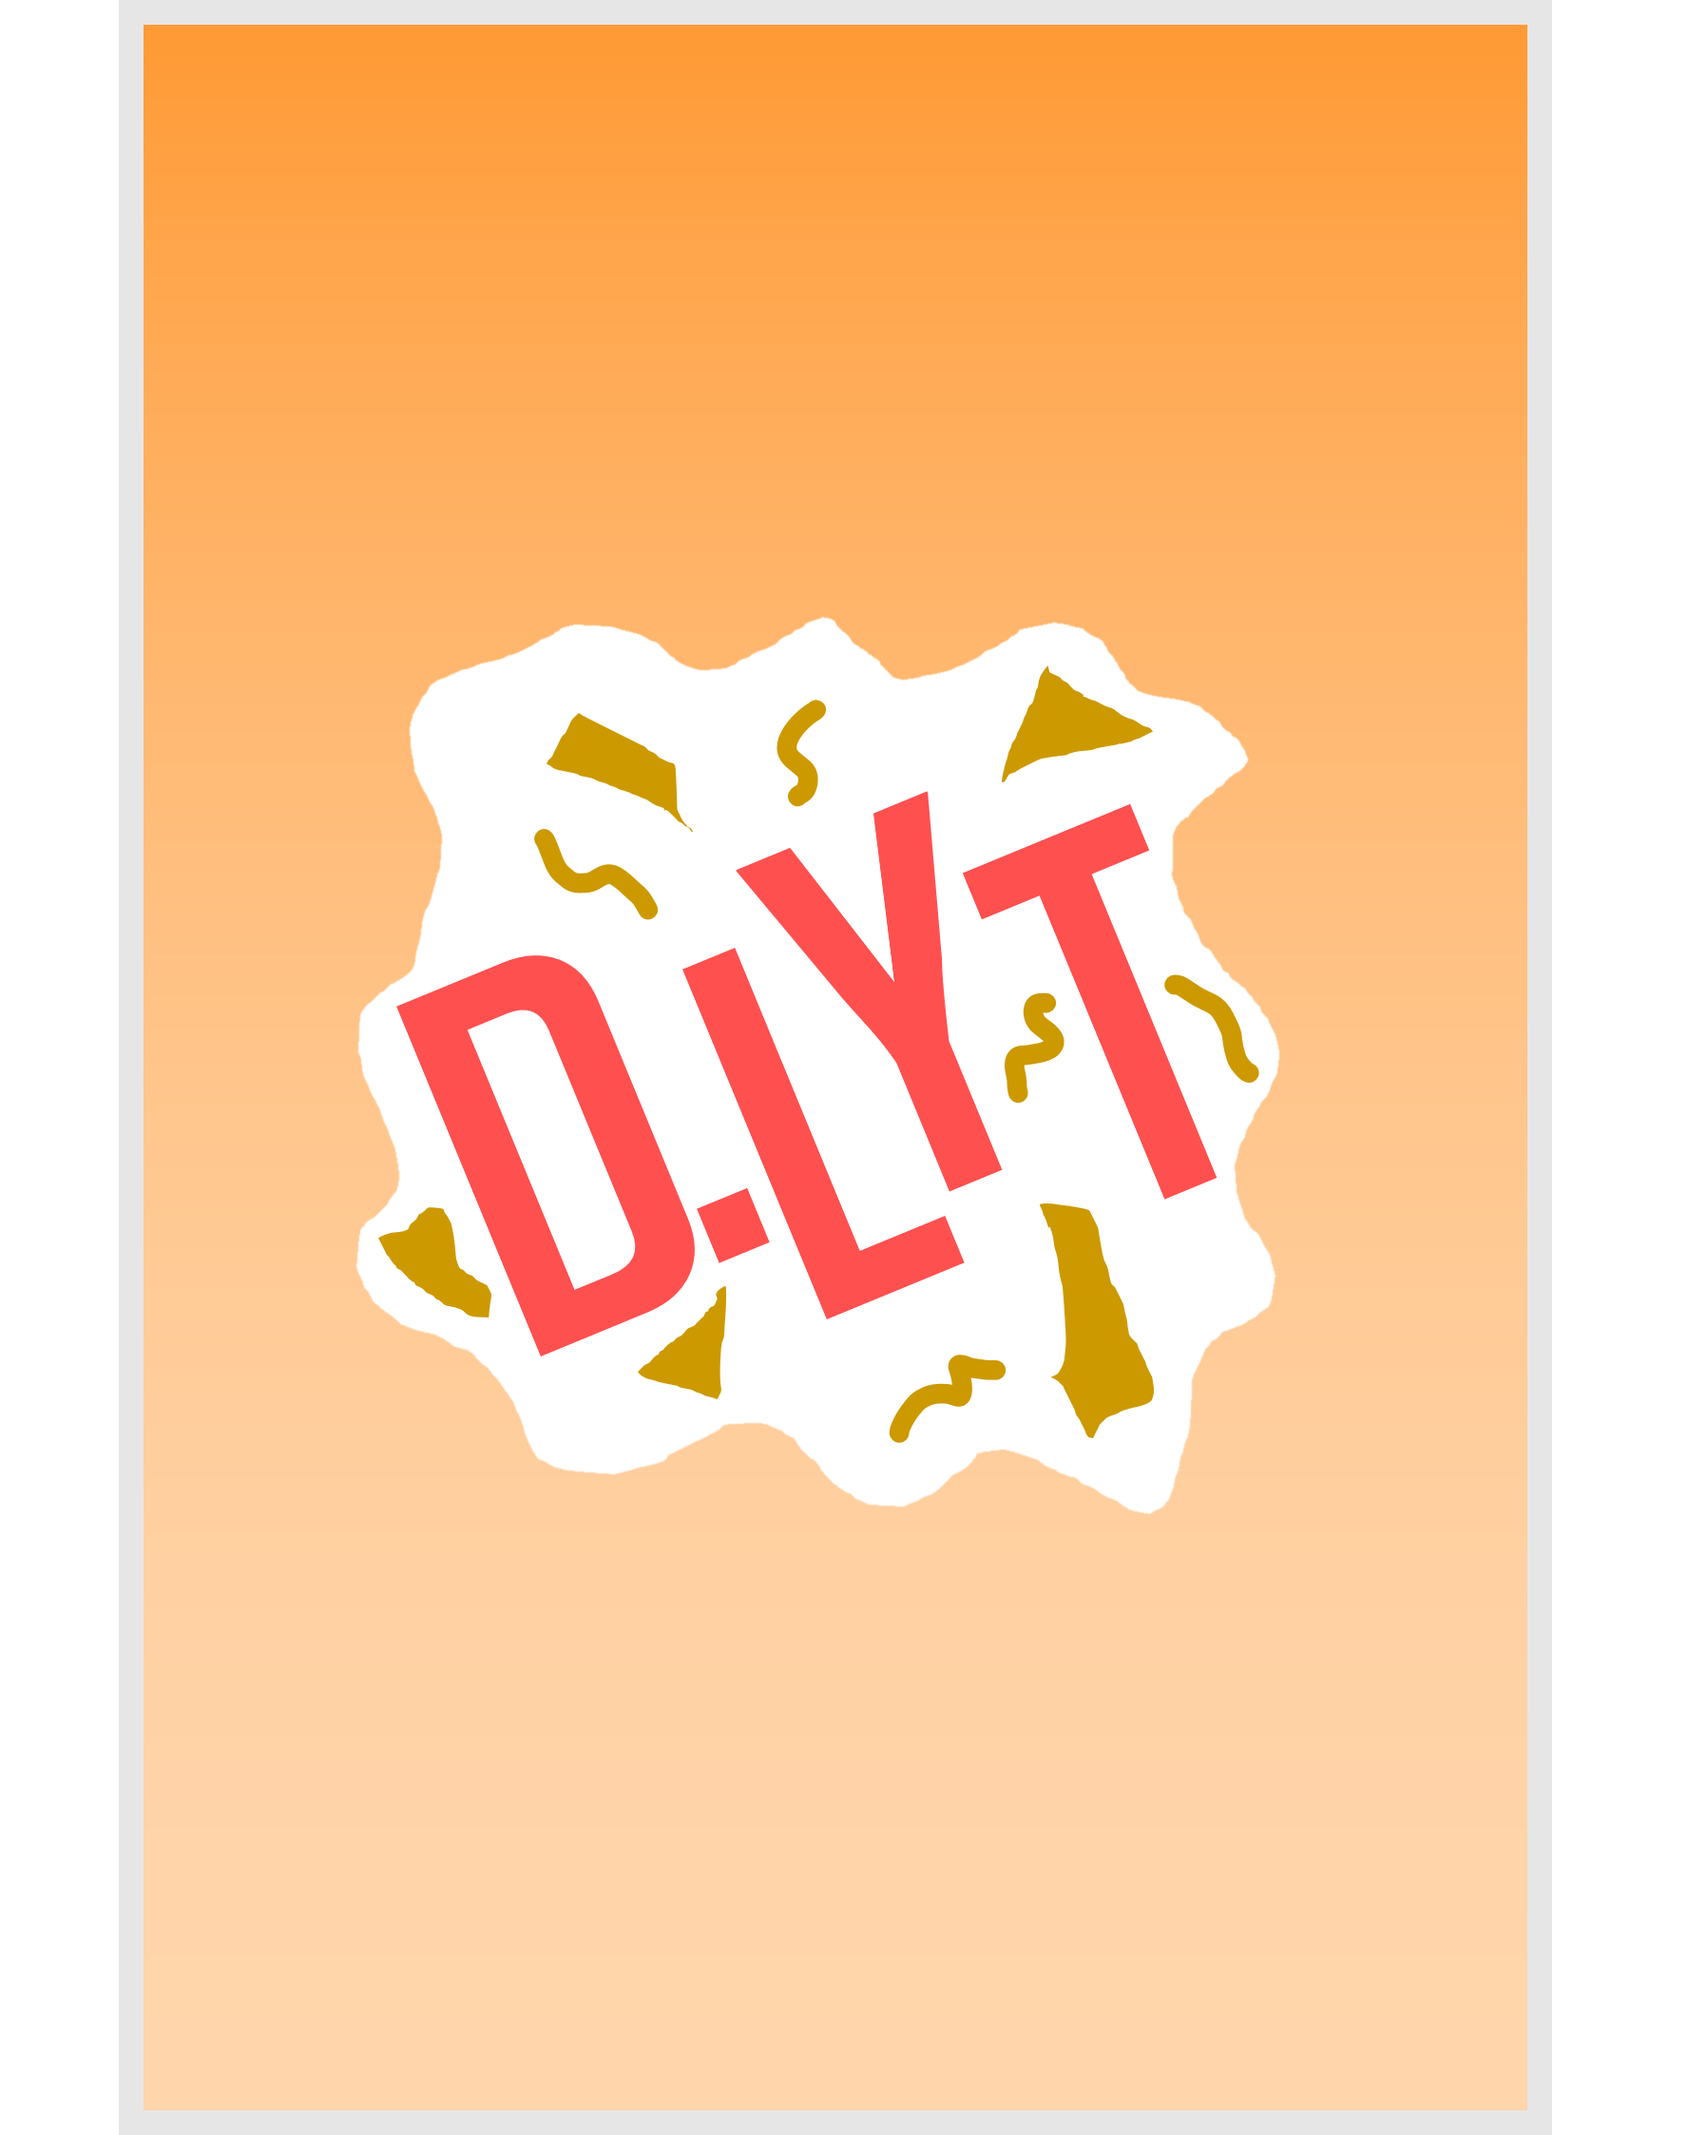
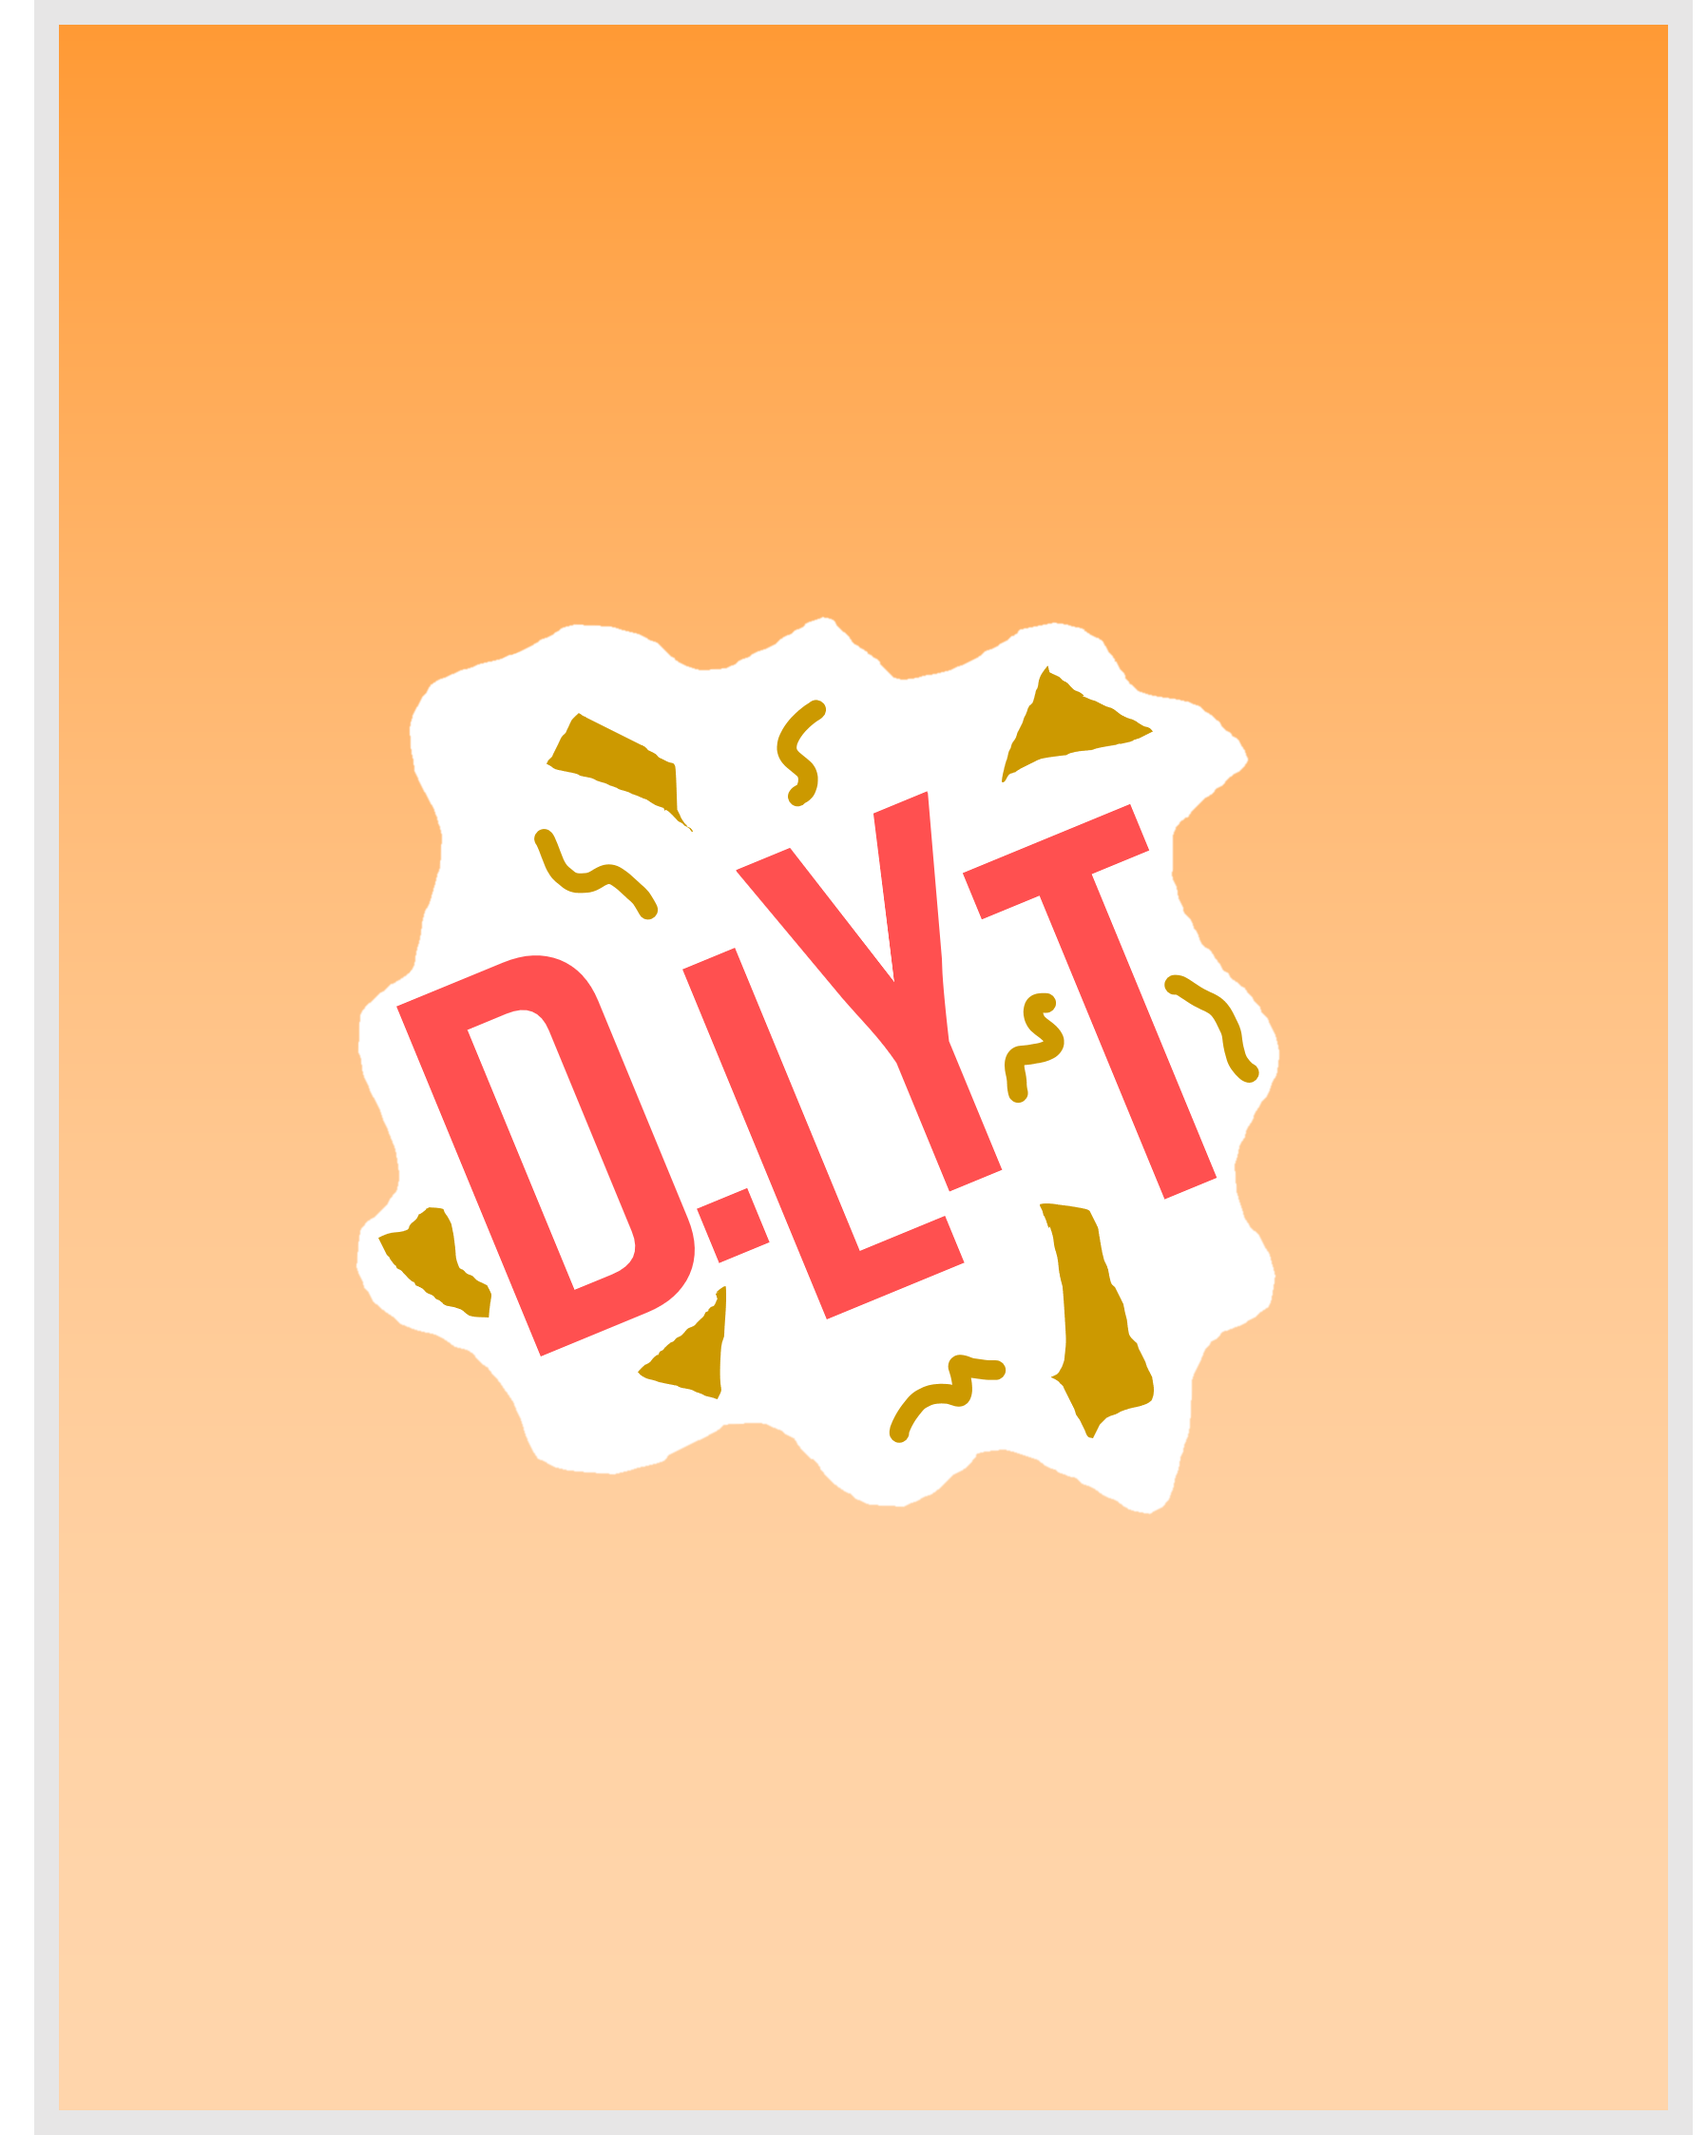
Index changes
Resized logo on cover of flipbook
English spelling

Changed region(s): [[0.8731, 0.0, 0.9978, 1.0], [0.0, 0.0, 0.0935, 1.0]]

diff --git a/read.html b/read.html
@@ -1,15 +1,15 @@
 <!DOCTYPE html>
 <head>
 
-<meta charset="UTF-8">
-<meta http-equiv="X-UA-Compatible" content="IE=edge">
-<title>The D-LYT Bookstore</title>
-<script src="https://code.jquery.com/jquery-3.4.1.slim.min.js" integrity="sha384-J6qa4849blE2+poT4WnyKhv5vZF5SrPo0iEjwBvKU7imGFAV0wwj1yYfoRSJoZ+n" crossorigin="anonymous"></script>
-<script src="https://cdn.jsdelivr.net/npm/popper.js@1.16.0/dist/umd/popper.min.js" integrity="sha384-Q6E9RHvbIyZFJoft+2mJbHaEWldlvI9IOYy5n3zV9zzTtmI3UksdQRVvoxMfooAo" crossorigin="anonymous"></script>
-<link rel="stylesheet" href="https://stackpath.bootstrapcdn.com/bootstrap/4.3.1/css/bootstrap.min.css" integrity="sha384-ggOyR0iXCbMQv3Xipma34MD+dH/1fQ784/j6cY/iJTQUOhcWr7x9JvoRxT2MZw1T" crossorigin="anonymous">
-<script src="https://stackpath.bootstrapcdn.com/bootstrap/4.3.1/js/bootstrap.min.js" integrity="sha384-JjSmVgyd0p3pXB1rRibZUAYoIIy6OrQ6VrjIEaFf/nJGzIxFDsf4x0xIM+B07jRM" crossorigin="anonymous"></script>
-<link rel="stylesheet" href="https://cdnjs.cloudflare.com/ajax/libs/font-awesome/4.7.0/css/font-awesome.min.css">
-<link href="css/style.css" rel="stylesheet" type="text/css">
+  <meta charset="UTF-8">
+  <meta http-equiv="X-UA-Compatible" content="IE=edge">
+  <title>The D-LYT Bookstore</title>
+  <script src="https://code.jquery.com/jquery-3.4.1.slim.min.js" integrity="sha384-J6qa4849blE2+poT4WnyKhv5vZF5SrPo0iEjwBvKU7imGFAV0wwj1yYfoRSJoZ+n" crossorigin="anonymous"></script>
+  <script src="https://cdn.jsdelivr.net/npm/popper.js@1.16.0/dist/umd/popper.min.js" integrity="sha384-Q6E9RHvbIyZFJoft+2mJbHaEWldlvI9IOYy5n3zV9zzTtmI3UksdQRVvoxMfooAo" crossorigin="anonymous"></script>
+  <link rel="stylesheet" href="https://stackpath.bootstrapcdn.com/bootstrap/4.3.1/css/bootstrap.min.css" integrity="sha384-ggOyR0iXCbMQv3Xipma34MD+dH/1fQ784/j6cY/iJTQUOhcWr7x9JvoRxT2MZw1T" crossorigin="anonymous">
+  <script src="https://stackpath.bootstrapcdn.com/bootstrap/4.3.1/js/bootstrap.min.js" integrity="sha384-JjSmVgyd0p3pXB1rRibZUAYoIIy6OrQ6VrjIEaFf/nJGzIxFDsf4x0xIM+B07jRM" crossorigin="anonymous"></script>
+  <link rel="stylesheet" href="https://cdnjs.cloudflare.com/ajax/libs/font-awesome/4.7.0/css/font-awesome.min.css">
+  <link href="css/style.css" rel="stylesheet" type="text/css">
 
 
 </head>

diff --git a/index.html b/index.html
@@ -21,7 +21,7 @@
          <div class="container">
                 <div id="flipbook">
                     <div class="page">
-                        <img src="images/logo.png" alt="" width="100%" >
+                        <img src="images/bookcover.png" alt="" width="100%" height="100%">
                     </div>
                     <div class="page">
                         <img src="images/prov3.jpg" alt="" width="100%" height="100%">
@@ -67,9 +67,9 @@
      <!-- for linking to the top of div.main -->
 
      <div class="main" id="main">
-             <h1>The D-LYT Bookstore</h1>
-             <p>The D-LYT bookstore is an award-winning children's literacy nonprofit.
-             At D-LYT, we hold to one simple truth: Reading matters. It’s an early gateway skill that
+             <h1>The D.LYT Bookstore</h1>
+             <p>The D.LYT bookstore is an award-winning children's literacy nonprofit.
+             At D.LYT, we hold to one simple truth: Reading matters. It’s an early gateway skill that
              paves the pathway for future success. Without reading skills, kids are simply less likely
              to graduate high school, find employment, or successfully avoid other hardships like poverty,
              homelessness, hunger, and injustice.</p>
@@ -79,7 +79,9 @@
              children, modeling a love of reading and building children’s reading skills and
              self-confidence in a positive, child-guided environment.
              <br>
-             <span class="value">Our Vision</span> is to make all children realize their full potential through reading.
+             <br>
+             <span class="value">Our Vision</span> is to make all children realise their full potential through reading.
+             <br>
              <br>
              <span class="value">Our Mission</span> is to spark joy and opportunity through the magic of a shared book</span> .</p>
 
